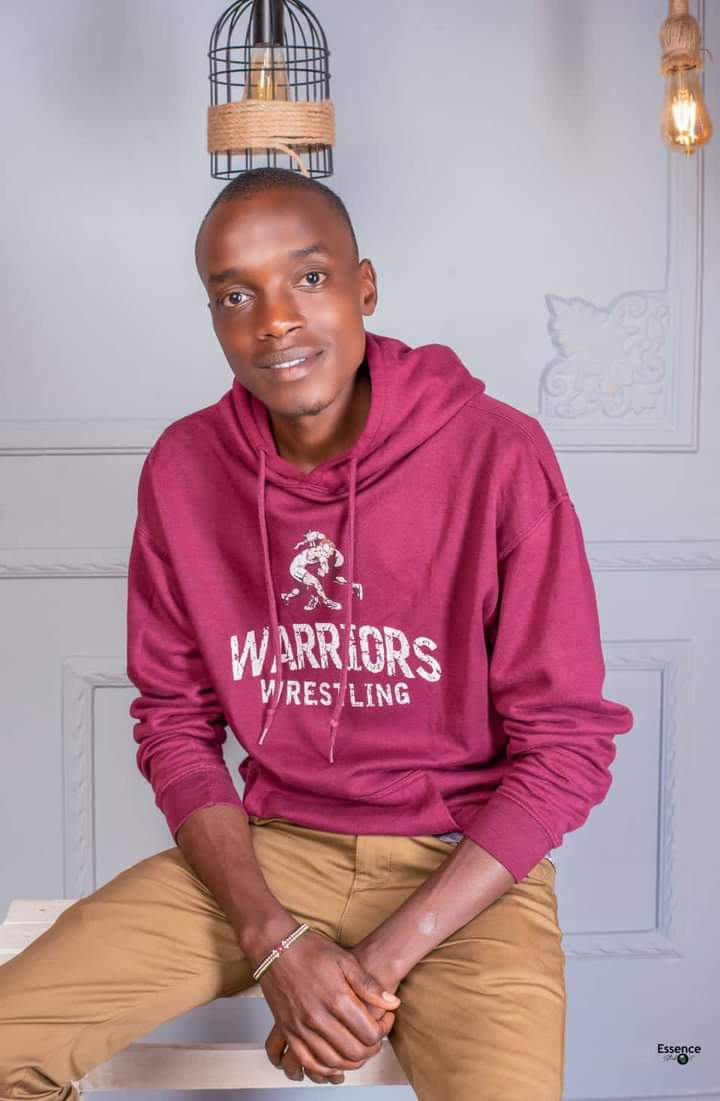
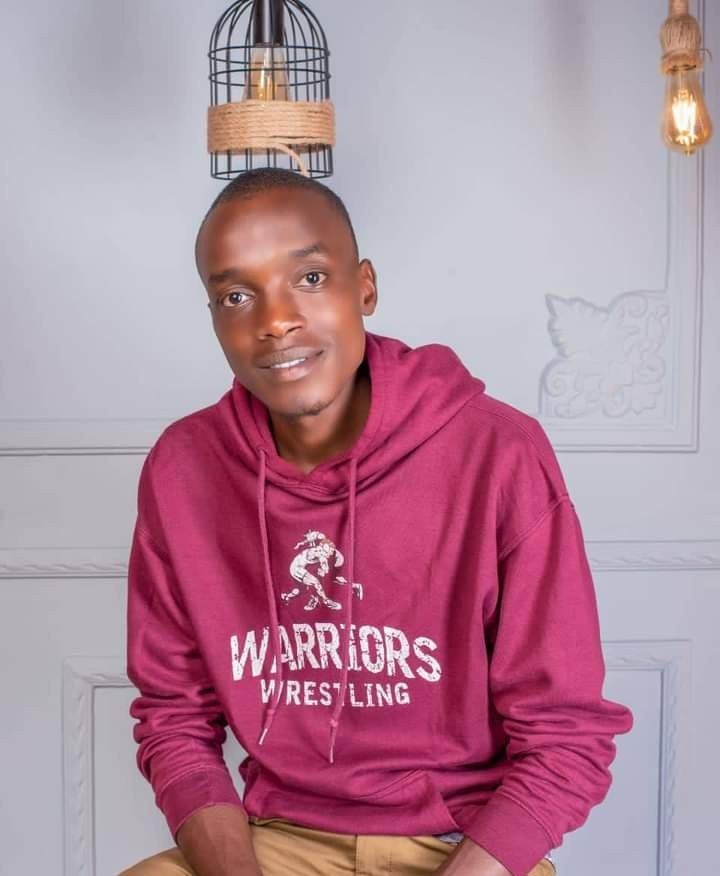
sss

diff --git a/styles.css b/styles.css
@@ -37,9 +37,7 @@ body {
 
 img { 
     display:block; 
-    width:100%; 
-    height: 100%;
-    object-fit: cover;
+    max-width:100%; 
 }
 a  { 
     text-decoration:none; 
@@ -533,6 +531,7 @@ a  {
   border:1px solid rgba(0,196,232,0.25);
   box-shadow:0 24px 64px rgba(0,0,0,0.55), 0 0 0 1px rgba(0,196,232,0.08), inset 0 1px 0 rgba(255,255,255,0.05);
   transform-style:preserve-3d;
+  overflow:hidden;
   transition:box-shadow .3s;
   will-change:transform;
 }
@@ -572,6 +571,11 @@ a  {
   align-items:center; justify-content:center;
   border-radius:18px 18px 0 0; z-index:3; 
   position:relative;
+}
+.card-portrait-placeholder img{
+  height: 100%;
+  width: 100%;
+  object-fit: cover;
 }
 .card-initials {
   font-family:'DM Serif Display', serif;
